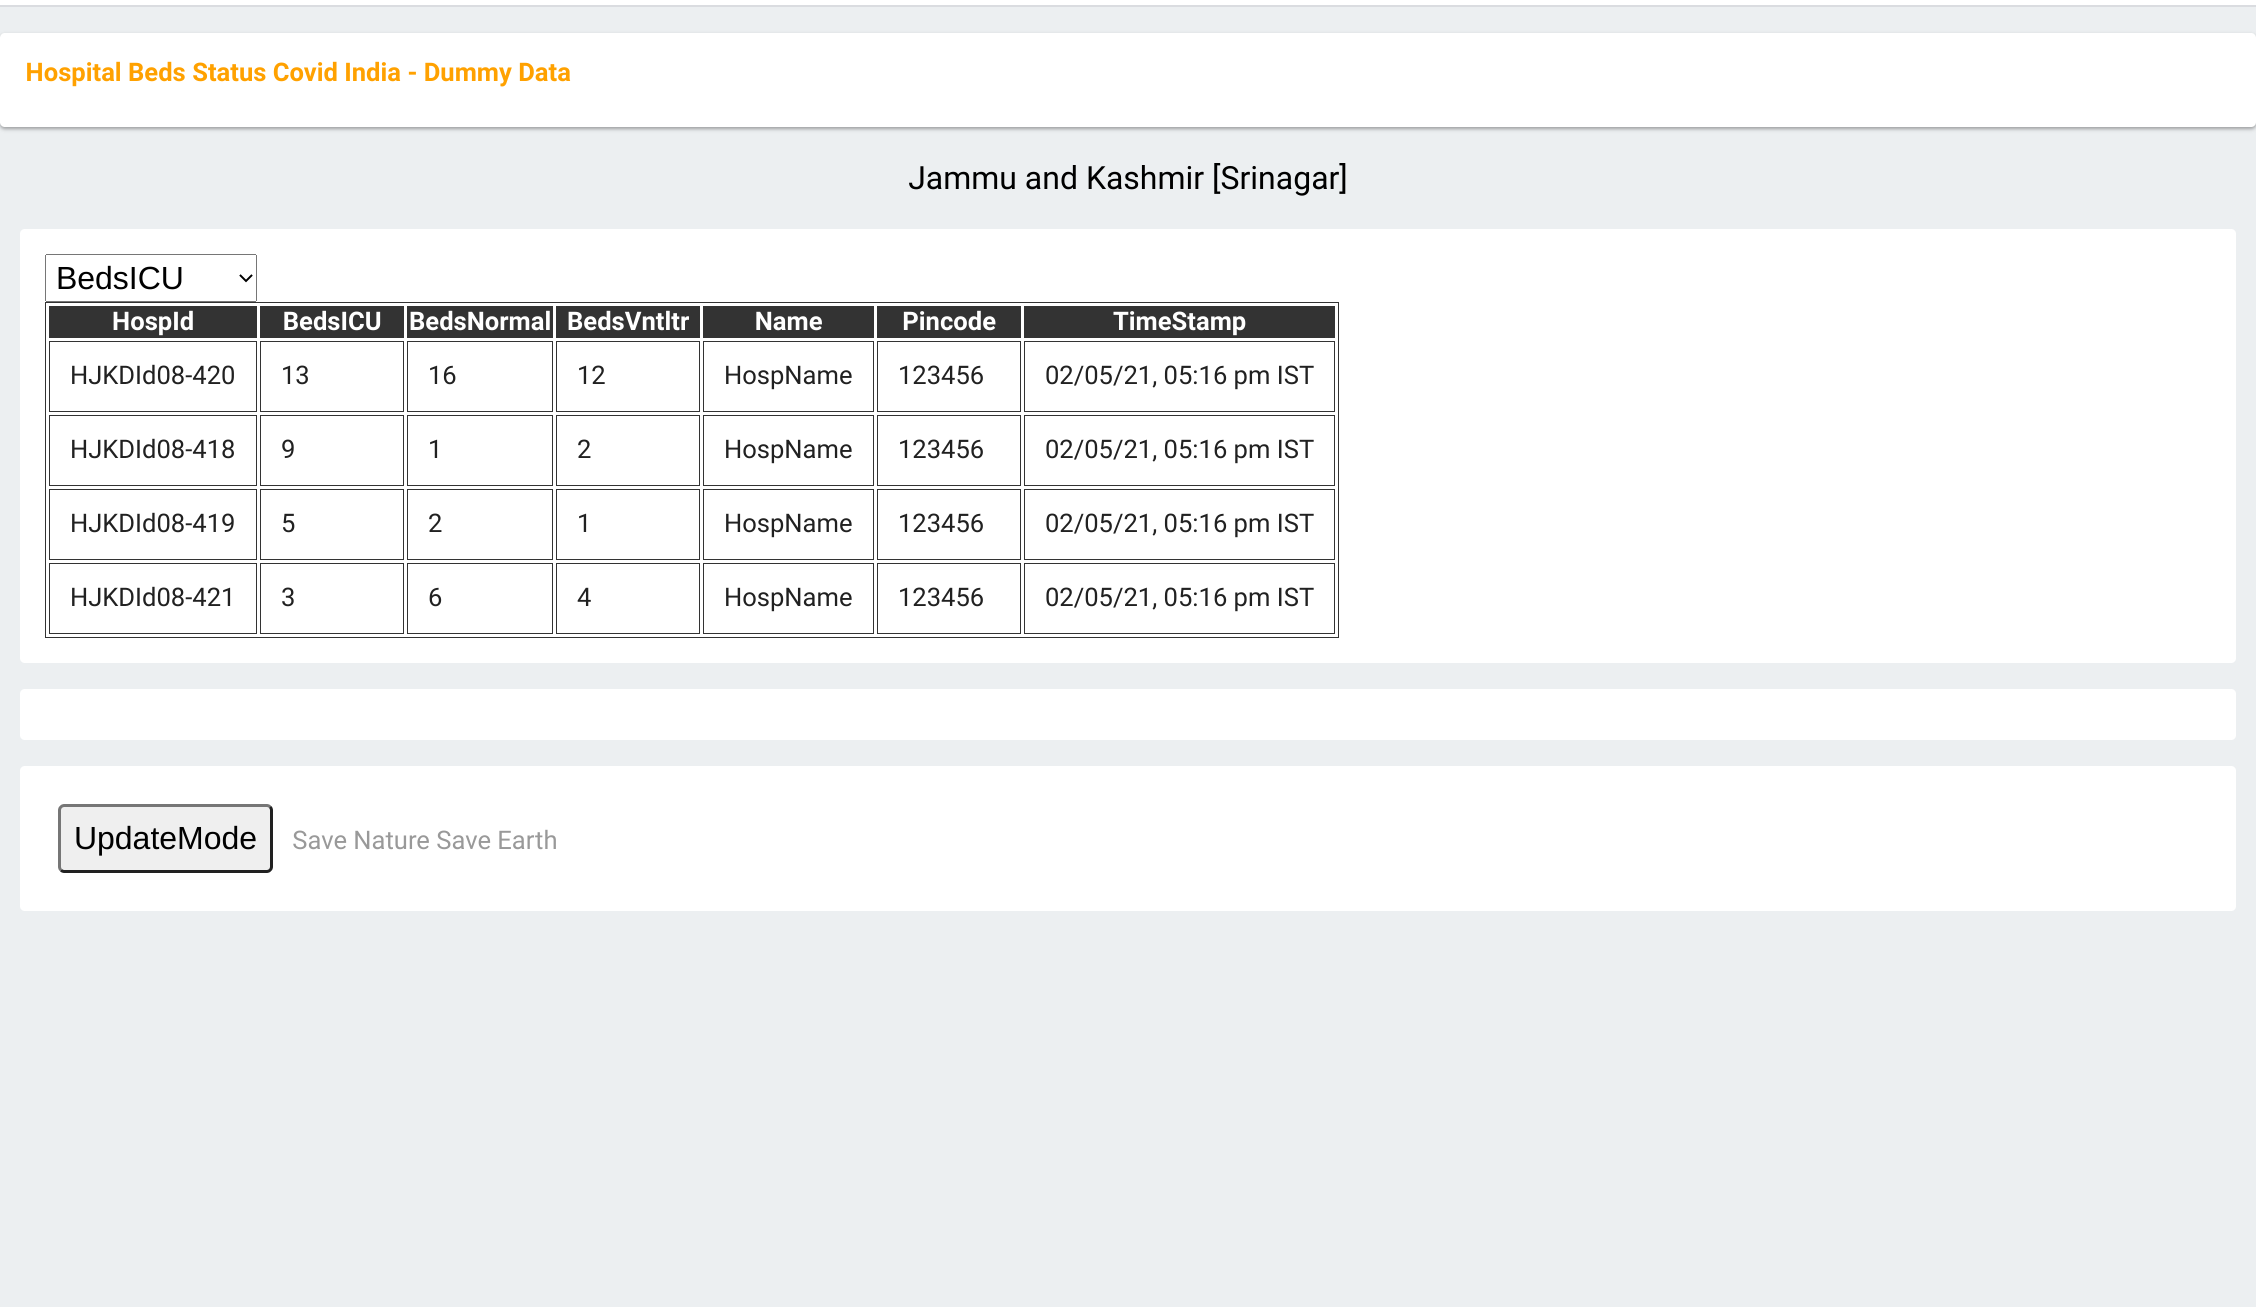
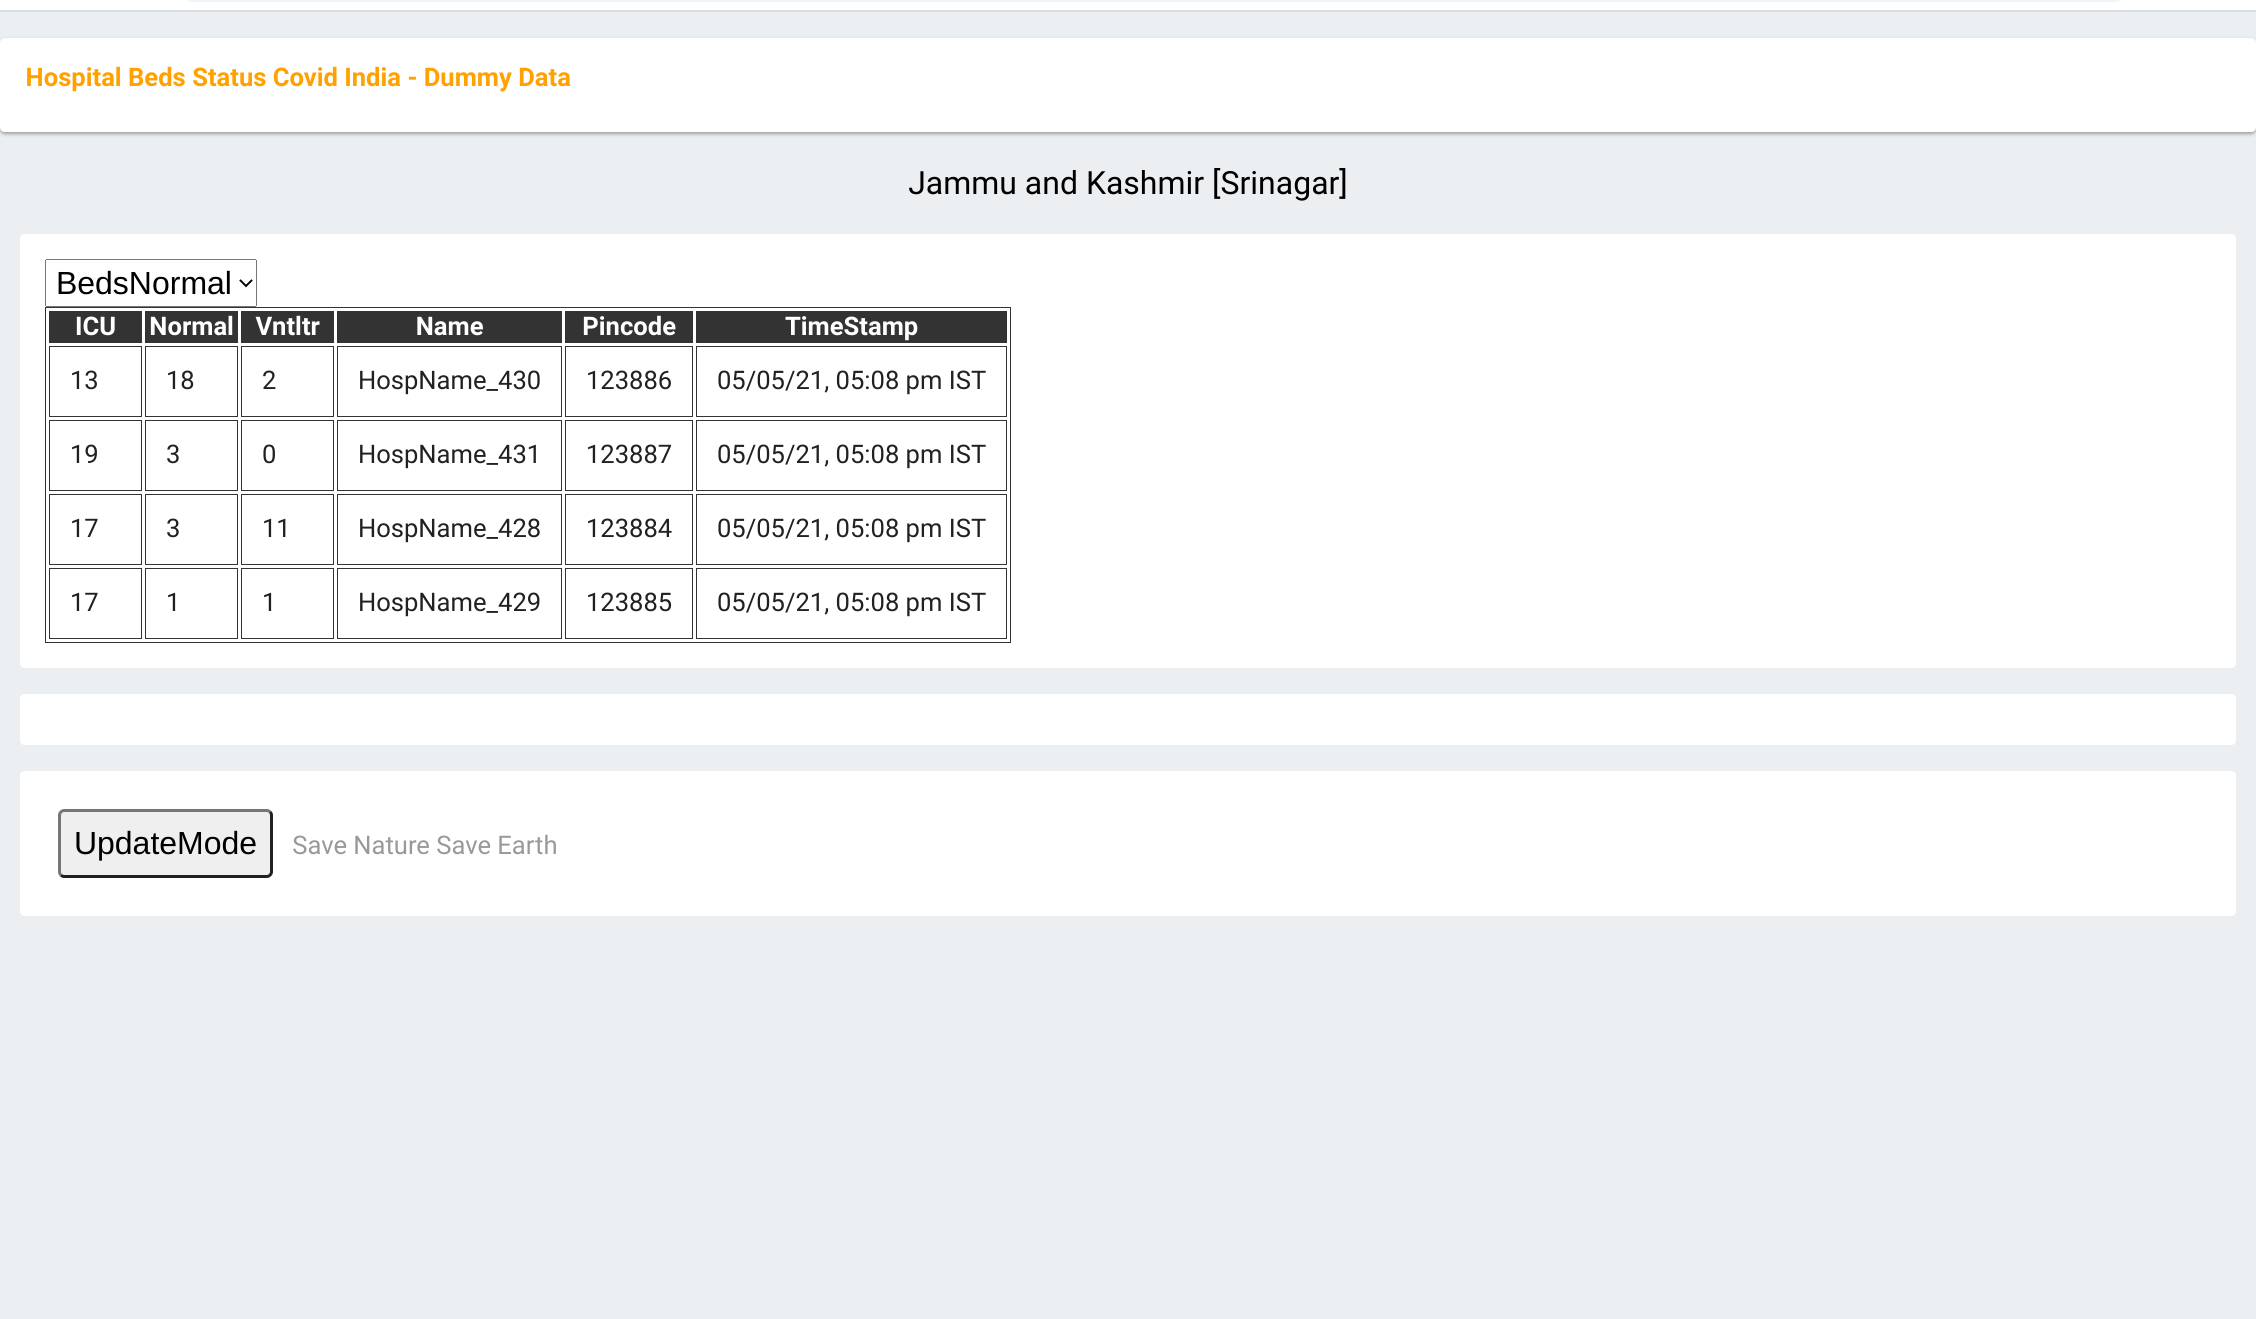
Readme updated to new screens without HospId
HospIds hidden from view to try and fit more useful info within
the visible area of mobile portrait mode. Inturn the images updated
to reflect the equivalent new screens.

diff --git a/README.rst b/README.rst
@@ -393,14 +393,14 @@ The Main screen
 State level screen
 
 .. image:: Notes/Images/HBCIn_DistrictLvl1.png
-   :alt: District Lvl screen - filter on BedsICU
+   :alt: District Lvl screen - filter and sort on BedsNormal
 
-District level screen - Filter on BedsICU
+District level screen - Filter-Sort on BedsNormal
 
 .. image:: Notes/Images/HBCIn_DistrictLvl2.png
-   :alt: District Lvl screen - filter on BedsVntltr
+   :alt: District Lvl screen - filter and sort on BedsVentilator
 
-District level screen - Filter on BedsVntltr
+District level screen - Filter-Sort on BedsVentilator
 
 .. image:: Notes/Images/HBCIn_UpdateModeSignIn.png
    :alt: UpdateMode SignIn screen
@@ -410,12 +410,12 @@ UpdateMode signin screen
 .. image:: Notes/Images/HBCIn_UpdateModeUpdate.png
    :alt: UpdateMode Update screen
 
-UpdateMode update screen
+UpdateMode update availability screen
 
 .. image:: Notes/Images/HBCIn_StateLvl2.png
    :alt: State Lvl screen - signed in
 
-State level screen (signed in)
+State level screen (signed in - shows user email)
 
 
 At the End
